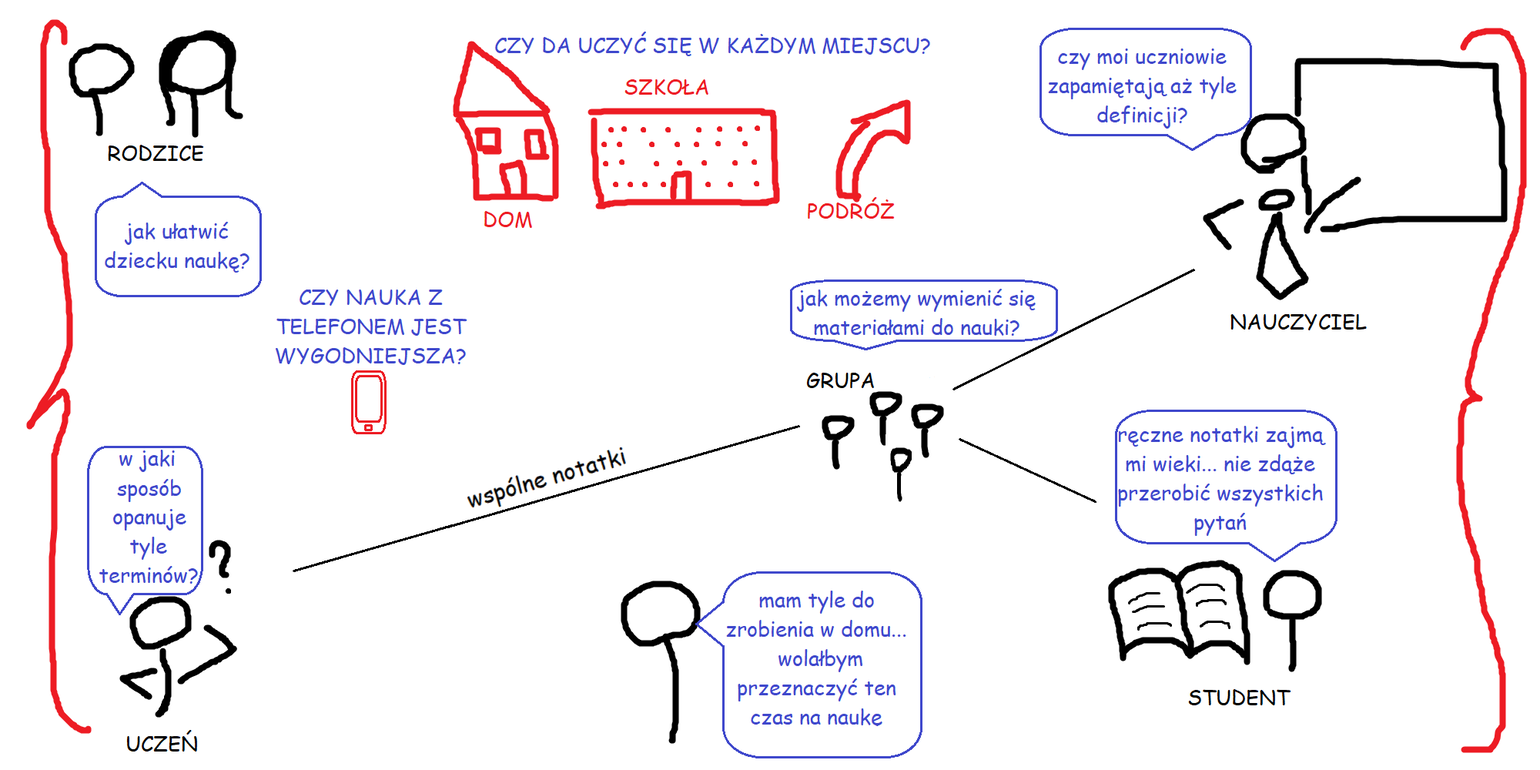
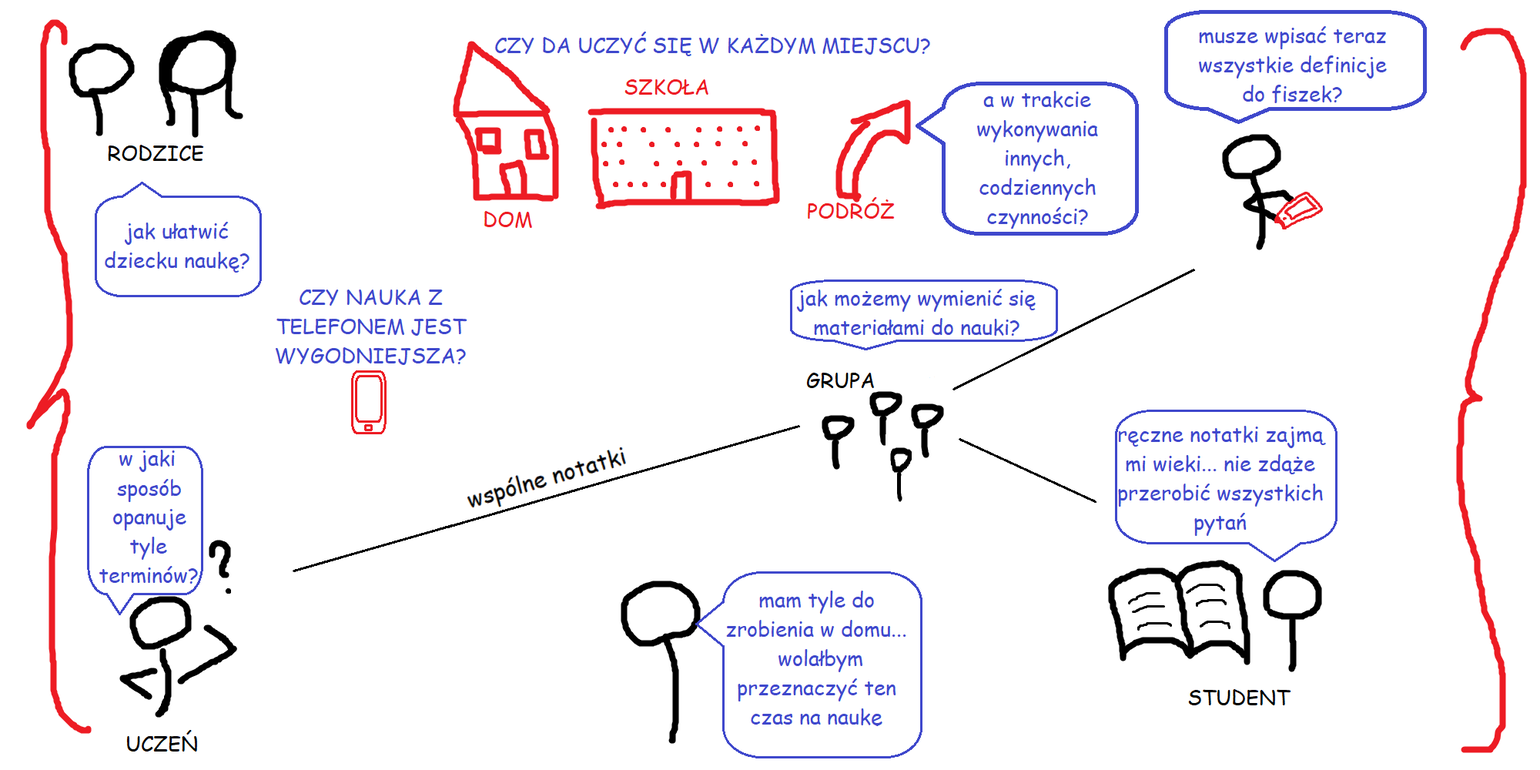
poprawki

Changed region(s): [[0.589, 0.0, 0.992, 0.434]]

diff --git a/book_latex/chapters/chapter_3/main.tex b/book_latex/chapters/chapter_3/main.tex
@@ -1,38 +1,47 @@
-\chapter{Projekt w kontekście problemu.}
+\chapter{Projekt w kontekście problemu}
 
-\section{Omówienie zakresu projektu.}
+\section{Omówienie zakresu projektu}
 
-W odpowiedzi na zdefiniowany i omówiony w Rozdziale II problem, niniejszy projekt zakłada wytworzenie aplikacji edukacyjnej, która umożliwi naukę metodą wykorzystującą fiszki. Projekt obejmuje dostarczenie aplikacji webowej dostępnej z poziomu przeglądarki internetowej oraz aplikacji mobilnej dla urządzeń z systemem android lub IOS. W zakres prac wlicza się także zbudowanie pełnej infrastruktury wspierającej aplikację - backend oraz serwer utrzymujący cały system.
+W odpowiedzi na zdefiniowany i omówiony w Rozdziale II problem, niniejszy projekt zakłada wytworzenie aplikacji edukacyjnej, która umożliwi naukę metodą wykorzystującą fiszki. Projekt obejmuje dostarczenie aplikacji webowej dostępnej z poziomu przeglądarki internetowej oraz aplikacji mobilnej dla urządzeń z systemem Android lub iOS. W zakres prac wlicza się także zbudowanie pełnej infrastruktury wspierającej aplikację - backend oraz serwer utrzymujący cały system.
 
-\section{Proponowane rozwiązanie.}
+\section{Proponowane rozwiązanie}
 
 Projekt bazuje na kilku kluczowych założeniach, które mają na celu bezpośrednie rozwiązanie problemów opisanych w Rozdziale II:
 
 \begin{itemize}
-    \item Obsługa Głosowa: integracja obsługi głosowej aplikacji ma ułatwić korzystanie z niej w sytuacjach w których użytkownik ma ograniczone możliwości fizycznej obsługi urządzenia. Dzięki temu nauka jest możliwa w każdych warunkach, co odpowiada na problem ograniczonej dostępności tradycyjnych metod nauki.
-    \item Narzędzie AI do tworzenia fiszek: udostępnienie narzędzia umożliwiającego automatyczne generowanie i dobieranie definicji/odpowiedzi do zagadnień w fiszkach. Pozwala przyśpieszyć i uprzystępnić proces redagowania fiszek.
-    \end{itemize}
+    \item obsługa głosowa: integracja obsługi głosowej aplikacji ma ułatwić korzystanie z niej w sytuacjach, w których użytkownik ma ograniczone możliwości fizycznej obsługi urządzenia. Dzięki temu nauka jest możliwa w każdych warunkach, co odpowiada na problem ograniczonej dostępności tradycyjnych metod nauki;
+    \item narzędzie AI do tworzenia fiszek: udostępnienie narzędzia umożliwiającego automatyczne generowanie i dobieranie definicji/odpowiedzi do zagadnień w fiszkach. Pozwala przyśpieszyć i uprzystępnić proces redagowania fiszek.
+\end{itemize}
 
-\section{Grupa docelowa.}
+\section{Grupa docelowa}
 
-Główną grupę użytkowników stanowią uczniowie i studenci, a także osoby, które nie mają czasu na tradycyjną formę przyswajania wiedzy na przykład czytanie lub naukę przy biurku w domowym zaciszu. Generowanie definicji przy użyciu programu ChatGPT pozwala na szybkie tworzenie zestawów fiszek, co może być bardzo wygodne dla osób ceniących sobie czas. Głosowa obsługa talii fiszek pozwala na wykonywanie sesji nauki w warunkach niesprzyjających innym formą uczenia się. Użytkownik ma możliwość powtórzenia materiału, wykonując inne obowiązki, takie jak gotowanie, sprzątanie lub inne czynności którym nie trzeba poświęcać większej uwagi.
+Główną grupę użytkowników stanowią uczniowie i studenci, a także osoby, które nie mają czasu na tradycyjną formę przyswajania wiedzy, na przykład czytanie lub naukę przy biurku w domowym zaciszu. Generowanie definicji przy użyciu programu ChatGPT pozwala na szybkie tworzenie zestawów fiszek, co może być bardzo wygodne dla osób ceniących sobie czas. Głosowa obsługa talii fiszek pozwala na wykonywanie sesji nauki w warunkach niesprzyjających innym formom uczenia się. Użytkownik ma możliwość powtórzenia materiału, wykonując inne obowiązki, takie jak gotowanie, sprzątanie lub inne czynności, którym nie trzeba poświęcać większej uwagi.
 
-\section{Analiza konkurencyjnych rozwiązań.}
+\section{Analiza rozwiązań konkurencji}
 
 Ważnym aspektem tworzenia nowego produktu lub usługi jest analiza konkurencji. Dostrzeżenie wad i zalet konkurencyjnych rozwiązań pozwala na ulepszenie produktów dostępnych na rynku i dotarcie do nowej grupy klientów.
 
 \subsection{Quizlet}
 
+%\putimage{Aplikacja mobilna Quizlet.}{chapters/chapter_3/quizlet.png}{img:quizlet}{0.5\textwidth}
+
 Jedna z pierwszych dostępnych na rynku aplikacja do fiszek. Utworzone w 2005 roku narzędzie do nauki zgromadziło ogromną bazę użytkowników szacowaną na około 50 milionów. Quizlet posiada stronę internetową i aplikacje mobilną dostępne na Android i IOS.
+
+\begin{figure}[H]
+    \centering
+    \includegraphics[width=0.5\textwidth]{chapters/chapter_3/quizlet.png}
+    \caption{Aplikacja mobilna Quizlet.}
+    \label{img:quizlet}
+\end{figure}
 
 Zalety:
 \begin{itemize}[label=-]
-    \item Możliwość tworzenia testów w różnych trybach: prawda fałsz, wielokrotny wybór, pisemny
+    \item Możliwość tworzenia testów w różnych trybach: prawda/fałsz, wielokrotny wybór, pisemny
     \item Odczytanie przez lektora treści fiszki poprzez kliknięcie przycisku
     \item Dostęp do materiałów, które zostały zweryfikowane przez ekspertów
     \item Personalizacja fiszek za pomocą obrazów i dźwięków
     \item Pozwala na wyszukiwanie talii innych użytkowników
-    \end{itemize}
+\end{itemize}
 
 Wady:
 \begin{itemize}[label=-]
@@ -40,11 +49,18 @@ Wady:
     \item Pełny dostęp do wszystkich funkcjonalności tylko za opłatą
     \item Brak rankingu popularności talii użytkowników, co pozwalałoby na łatwy dostęp do innych talii
     \item Brak trybu sterowania talii głosem
-    \end{itemize}
+\end{itemize}
 
 \subsection{Fiszkoteka}
 
-Polski portal do nauki metodą fiszek ukierunkowany na naukę języków obcych. Oprócz strony internetowej aplikacja dostępna na system Android or IOS.
+Polski portal do nauki metodą fiszek ukierunkowany na naukę języków obcych. Oprócz strony internetowej aplikacja dostępna na system Android lub iOS.
+
+\begin{figure}[H]
+    \centering
+    \includegraphics[width=0.5\textwidth]{chapters/chapter_3/fiszoteka.png}
+    \caption{Aplikacja mobilna Fiszoteka.}
+    \label{img:fiszoteka}
+\end{figure}
 
 Zalety:
 \begin{itemize}[label=-]
@@ -53,7 +69,7 @@ Zalety:
     \item Tryb słuchania, tytuł i treść fiszek są odczytywane po kolei przez lektora
     \item Dostęp do publicznych talii
     \item Można pobrać dokument PDF lub Mp3 z fiszek
-    \end{itemize}
+\end{itemize}
 
 Wady:
 \begin{itemize}[label=-]
@@ -63,11 +79,18 @@ Wady:
     \item Lektor w bezpłatnej wersji ograniczony do 20 dźwięków dziennie
     \item Brak trybu sterowania talii głosem
     \item Aplikacja ukierunkowana na uczenie się słówek
-    \end{itemize}
+\end{itemize}
 
 \subsection{Gizmo}
 
-Aplikacja wykorzystuje narzędzia sztucznej inteligencji, które pozwalają na tworzenie zestawów fiszek na podstawie plików PDF, CSV lub filmów na platformie YouTube. Gizmo posiada zarówno stronę internetową, jak i apliakcje mobliną na Andorid i IOS.
+Aplikacja wykorzystuje narzędzia sztucznej inteligencji, które pozwalają na tworzenie zestawów fiszek na podstawie plików PDF, CSV lub filmów na platformie YouTube. Gizmo posiada zarówno stronę internetową, jak i aplikację mobilną na Androida i iOS.
+
+\begin{figure}[H]
+    \centering
+    \includegraphics[width=0.5\textwidth]{chapters/chapter_3/gizmo.png}
+    \caption{Aplikacja mobilna Gizmo.}
+    \label{img:gizmo}
+\end{figure}
 
 Zalety:
 \begin{itemize}[label=-]
@@ -78,7 +101,7 @@ Zalety:
     \item Kalendarz passy (streak) zachęcający do nauki
     \item Przejrzysty interfejs
     \item Dostęp do publicznych talii
-    \end{itemize}
+\end{itemize}
 
 Wady:
 \begin{itemize}[label=-]
@@ -87,71 +110,61 @@ Wady:
     \item Brak rankingu popularności talii użytkowników
     \item Domyślnie irytująca częstotliwość powiadomień
     \item Brak trybu sterowania talii głosem
-    \end{itemize}
+\end{itemize}
 
 \subsection{Flashcards}
 
 Aplikacja dostępna tylko w wersji mobilnej. Ukierunkowana na uczenie się ze słuchu i tworzenie talii z użyciem mowy. Nieintuicyjny interfejs sprawia, że aplikacja jest nieprzyjazna dla nowych użytkowników.
+
+\begin{figure}[H]
+    \centering
+    \includegraphics[width=0.5\textwidth]{chapters/chapter_3/flashcards.png}
+    \caption{Aplikacja mobilna Flashcards.}
+    \label{img:flashcards}
+\end{figure}
 
 Zalety:
 \begin{itemize}[label=-]
     \item W trybie uczenia pozwala na korzystanie bez dotykania
     \item Możliwość tworzenia fiszek poprzez dyktowanie
     \item Brak reklam, brak opłat
-    \end{itemize}
+\end{itemize}
 
 Wady:
 \begin{itemize}[label=-]
     \item Bardzo archaiczny interfejs
     \item Nieintuicyjny interfejs
     \item Skromna instrukcja korzystania
-    \item W trybie uczenia mogę tylko słuchać i czekać na timer, nie ma nasłuchiwania haseł/komend
-    \item Brak publicznych talli
-    \end{itemize}
+    \item W trybie uczenia można tylko słuchać i czekać na timer, nie ma nasłuchiwania haseł/komend
+    \item Brak publicznych talii
+\end{itemize}
 
-\section{Analiza szans oraz zalet względem konkurencyjnych rozwiązań.}
+\section{Analiza szans oraz zalet względem konkurencyjnych rozwiązań}
 
 Podrozdział zawiera spis najważniejszych funkcjonalności, które odróżniają aplikację fiszki od innych produktów dostępnych na rynku.
 
-\subsection{Szanse/Zalety względem konkurencyjnych rozwiązań.}
+\subsection{Szanse/Zalety względem konkurencyjnych rozwiązań}
 
 Zalety:
 \begin{itemize}[label=-]
     \item Sterowanie głosowe talii
     \item Generowanie treści fiszki, wykorzystując ChatGPT
     \item Ranking najpopularniejszych talii
-    \end{itemize}
+\end{itemize}
 
-\subsection{Wady względem konkurencyjnych rozwiązań.}
+\subsection{Wady względem konkurencyjnych rozwiązań}
 
 Wady:
 \begin{itemize}[label=-]
     \item Aplikacja dostępna tylko w języku angielskim uniemożliwia uczenie się języków obcych
     \item Brak narzędzi generowania zestawów talii z różnych formatów plików takich jak: CSV, mp4, PDF
-    \item Brak możliwości generowania testów wielokrotnego wyboru lub prawda fałsz
-    \item Nie można eksportować talii do innych formatów plików takich jak pdf lub csv
-    \end{itemize}
+    \item Brak możliwości generowania testów wielokrotnego wyboru lub prawda/fałsz
+    \item Nie można eksportować talii do innych formatów plików takich jak PDF lub CSV
+\end{itemize}
 
-\section{Analiza ryzyka.}
+\section{Analiza ryzyka}
+
+Podrozdział przedstawia analizę ryzyka, która ma na celu określenie i zrozumienie potencjalnych zagrożeń, które mogą wpłynąć na proces tworzenia projektu.
 
 
-\begin{tabular}{|p{2.3cm}|p{2.3cm}|p{2.3cm}|p{2.3cm}|p{2.3cm}|p{2.3cm}|}
-    \hline
-\textbf{Zidentyfiko- wane ryzyko [20]} & \textbf{Symptomy} & \textbf{Środki / Działania zapobiegawcze i szacowany poziom trudności ich wdrożenia} & \textbf{Środki / Działania minimalizujące wpływ na projekt – już po jego wystąpieniu i szacowany poziom trudności ich wdrożenia (1-10)} & \textbf{Ranga ryzyka (im niższa, tym mniejszy negatywny wpływ na projekt)} & \textbf{Prawdopodo- bieństwo wystąpienia (1-100\%)} \\
-\hline
-Błędy w kodzie [O] & Błędy w kompilacji, wyniki testów nie pokrywają się z oczekiwanym rezultatem  & Szybka identyfikacja błędów, wykonywanie testów oprogramowania & Poprawa kodu, testowanie na bieżąco nowo implementowanych funkcjonalności (4) & 10 & 100\% \\
-\hline
-Awaria sprzętu deweloperskiego [S] & Sprzęt przestaje działać, brak możliwości odzyskania danych & Częste commity na repozytorium & Działanie na ostatniej wersji z repozytorium (1) & 7 & 10\% \\
-\hline
-Niedobór umiejętności w zespole [L] & Problemy jednostek w poszczególnych zadaniach & Uzupełnianie wiedzy & Pomoc innych członków zespołu (2) & 7 & 100\% \\
-\hline
-Niezgodność czasowa zespołu [C]  & Osoba blokuje postęp nad projektem poprzez odpowiedzialność nad kluczowym elementem & Wcześniejsze zaplanowanie pracy & Wspólna praca nad kluczowym elementem zajęcie się zadaniami niepowiązanymi (5) & 6 & 80\% \\
-\hline
-Wybór nieodpowiedniej technologii [T] & Planowane rozwiązania nie są osiągalne przez wykorzystywane technologie & Dogłębna analiza potrzebnych technologii i ich możliwości/ograniczeń & Dopasowanie alternatywnych możliwych rozwiązań (8) & 5 & 50\% \\
-\hline
-Niedoszacowanie budżetu potrzebnego do utrzymania infrastruktury [B] & Budżet zbliża się do wyczerpania przed zaplanowanym terminem  & Analiza cenników wykorzystywanych produktów & Próba pozyskania inwestorów (10) & 10 & 80\% \\
-\hline
-ChatGPT 3.5 generuje bezsensowną treść dotycząca zagadnienia o którą został zapytany przez użytkownika [F] & Generowane treści nie nawiązują do zagadnienia, o które chat został zapytany & Próba sprecyzowania zapytania, które zostało przesłane do chatu w celu wygenerowania konkretniejszej treści & Użytkownik może zaakceptować lub odrzucić wygenerowaną treść.  (4) & 7 & 50\% \\
-\hline
-\end{tabular}
-\clearpage
+\input{chapters/chapter_3/table}

diff --git a/book_latex/chapters/chapter_2/main.tex b/book_latex/chapters/chapter_2/main.tex
@@ -1,4 +1,4 @@
-\chapter{Omówienie problemu.}
+\chapter{Omówienie problemu}
 
 \section{Czym są fiszki?}
 
@@ -6,7 +6,7 @@ Nauka z wykorzystaniem metody fiszek opiera się na systemie regularnych powtór
 
 Rozwój technologiczny oraz dobiegająca zewsząd cyfryzacja powoli wypierają z użytku klasyczną formę stosowania fiszek na rzecz jej organizacji poprzez aplikacje mobilne oraz strony internetowe. Zmiana ta niesie wiele szans oraz możliwości udoskonalenia metody fiszek w jej skuteczności oraz dostępności. Fundamentalną zmianą jest samo przyśpieszenie całego procesu sporządzania talii oraz ich przeglądania – przy wykorzystaniu komputera lub smartfonu staje się to znacznie prostsze i szybsze niż ręczne zapisywanie kart, wycinania ich i gromadzenie.
 
-\section{Przedstawienie problemu.}
+\section{Przedstawienie problemu}
 
 Celem projektu jest zwiększenie efektywności uczenia się metodą fiszek poprzez jej integracje z interfejsem bezdotykowym. Pomimo dużego wkładu w przystępność i zwiększenie dostępności tej metody przez cyfrowe rozwiązania, istniejące aplikacje do tworzenia i przeglądania fiszek wymagają zasadniczo aktywnego zaangażowania użytkownika poprzez klikanie lub wpisywania na klawiaturze – zarówno przy użyciu smartfonów, jak i komputerów osobistych. Ta konieczność bezpośredniej interakcji ogranicza możliwości nauki do określonych sytuacji, co stanowi barierę w momentach, gdy użytkownik wykonuje inne czynności, na przykład proste prace domowe, a urządzenie obsługujące aplikacje nie może być efektywnie wykorzystane.
 
@@ -14,9 +14,13 @@ Dodatkowo proces tworzenia fiszek, który wymaga od użytkowników manualnego re
 
 W odpowiedzi na te wyzwania, opisany w niniejszej pracy system dąży do zminimalizowania ograniczeń związanych z tradycyjną obsługą aplikacji oferujących możliwość nauki metodą fiszek. Podjęty projekt proponuje rozwiązanie, które integruje proces przyswajania wiedzy z codziennymi czynnościami użytkownika oraz umożliwia jednocześnie szybsze i bardziej intuicyjne tworzenie materiałów do nauki. Celem realizowanego projektu jest stworzenie aplikacji, w której nauka jest nie tylko bardziej efektywna, ale również dostępna w szerokim zakresie sytuacji z pomocą bezdotykowej obsługi.
 
-\section{Zalety nauki z wykorzystaniem metody fiszek.}
+\section{Rich picture}
 
-\subsection{Krzywa zapomnienia Hermanna Ebbinghausa.}
+\putimage{Problem przedstawiony w rich picture.}{chapters/chapter_2/rich_picture.png}{img:rich_picture}{1.1\textwidth}
+
+\section{Zalety nauki z wykorzystaniem metody fiszek}
+
+\subsection{Krzywa zapomnienia Hermanna Ebbinghausa}
 
 Opierając się na systemie regularnych powtórek, praktykowana metoda fiszek pozwala na utrzymanie stanu wiedzy na wysokim poziomie zgodnie z zasadami krzywej zapomnienia Ebbing hausa. Mowa o zależności opisanej przez niemieckiego psychologa, Hermanna Ebbing hausa. Według wyników badań opublikowanych w 1885 roku w pracy \cite{1} Uber dąs Gedächtnis (w tłumaczeniu „O pamięci”), najlepszym sposobem na zapamiętanie jest rozłożenie nauki w czasie. Praktyka ta jest znacznie skuteczniejsza od skupienia nauki w jednym okresie. Istotnym elementem zagadnienia jest wykres omawianej krzywej:
 
@@ -27,24 +31,20 @@ Powyższy reprezentuje tempo, w którym następuje zapominanie nauczonych treśc
 
 W związku z powyższym przyjmuje się, że metoda nauki z regularnymi powtórkami, jaką oferuję metoda fiszek, pozwala na skuteczne utrwalenie wiedzy i znaczne spowolnienie zapominania jej. Użyte w badaniu informacje, które zostały podjęte nauce były danymi „bezużytecznymi”. Hermann Ebbinghaus celowo używał losowo utworzonych sylab, aby zminimalizować zależności między danymi a osobami które się uczyły. Powszechnie akceptowane w psychologii edukacyjnej jest twierdzenie, że przyswojenie informacji, które indywidualnie uznaje się za jakikolwiek interesujące dodatkowo ułatwia proces ich zapamiętania. Idące za tym wnioski plasują metodę regularnych powtórek tym bardziej przystępna, ponieważ znajduje zastosowanie nawet w przypadku zapamiętywania informacji, które nie koniecznie muszą być dla odbiorcy atrakcyjne.
 
-\subsection{Przykłady praktycznych zastosowań fiszek.}
+\subsection{Przykłady praktycznych zastosowań fiszek}
 
 Metoda nauki z wykorzystaniem fiszek znajduje szerokie zastosowanie w różnych dziedzinach nauki i życia codziennego, jej przystępna forma odpowiada poniższym przykładom:
 \begin{itemize}
-    \item Nauka języków obcych: Fiszki są powszechnie stosowane w celu utrwalenia słownictwa, zwrotów lub zasad gramatycznych języków obcych. Szybkie przypominanie i testowanie wiedzy jest w tym przypadku kluczowe w procesie opanowywania języka innego niż ojczysty.
-    \item Nauki techniczne: Ze względu na dużą ilość szczegółowych informacji, które istotnie trzeba spamiętać, fiszki są odpowiednim narzędziem dla studentów lub pracowników branży technicznych. Pomagają one w efektywnym przyswajaniu skomplikowanych terminów.
-    \item Przygotowanie do egzaminów: Uczniowie i studenci przygotowujący się do egzaminów mogą wykorzystać fiszki w celu opanowania kluczowych pojęć, definicji czy zestawu odpowiedzi.
+    \item nauka języków obcych: fiszki są powszechnie stosowane w celu utrwalenia słownictwa, zwrotów lub zasad gramatycznych języków obcych; szybkie przypominanie i testowanie wiedzy jest w tym przypadku kluczowe w procesie opanowywania języka innego niż ojczysty;
+    \item nauki techniczne: ze względu na dużą ilość szczegółowych informacji, które istotnie trzeba spamiętać, fiszki są odpowiednim narzędziem dla studentów lub pracowników branży technicznych. Pomagają one w efektywnym przyswajaniu skomplikowanych terminów;
+    \item przygotowanie do egzaminów: Uczniowie i studenci przygotowujący się do egzaminów mogą wykorzystać fiszki w celu opanowania kluczowych pojęć, definicji czy zestawu odpowiedzi.
 \end{itemize}
 
-\subsection{Personalizacja fiszek.}
+\subsection{Personalizacja fiszek}
 
 Do najważniejszych zalet nauki metodą fiszek zalicza się możliwość personalizacji materiałów naukowych. Osoby korzystające z fiszek mogą tworzyć własne talie, dostosowane do ich indywidualnych potrzeb i preferencji. Dodatkowo fiszki mogą być łatwo dostosowane do różnych sposobów uczenia się, przykładowo poprzez stosowanie trybu obsługi głosowej.
 
-\section{Rich picture.}
-
-\putimage{Problem przedstawiony w rich picture.}{chapters/chapter_2/rich_picture.png}{img:rich_picture}{1.1\textwidth}
-
-\section{Słownik pojęć.}
+\section{Słownik pojęć}
 
 \begin{enumerate}
     \item Fiszka - karta zapisana z dwóch stron, na jednej stronie znajduje się pytanie/zagadnienie, na drugiej odpowiedź/definicja.

diff --git a/book_latex/chapters/chapter_4/main.tex b/book_latex/chapters/chapter_4/main.tex
@@ -1,7 +1,7 @@
-\chapter{Społeczny aspekt projektu.}
+\chapter{Społeczny aspekt projektu}
 
-\section{Gamifikacja w kontekście produktu.}
-Aplikacja zawiera ranking popularności użytkowników i talii. Pozycja w rankingu użytkownika jest wyliczana na podstawie sumy wszystkich pobrań talii upublicznionych dla innych odbiorców systemu. Ranking talii to zestawy fiszek o największej liczbę pobrań. System rankingowy ma na celu wzbudzenie rywalizacji u użytkowników, co ma ich sprowokować do większej aktywności. System punktów zachęca także odbiorców systemu do tworzenia nowych zestawów talii i dzielenia się z nimi w celu zwiększenia swojej szansy na poprawienie swojej pozycji rankingowej.
+\section{Gamifikacja w kontekście produktu}
+Została przeprowadzona analiza związana z wpływem rywalizacji na aktywność użytkownika, wynika z niej, że elementy rankingowe mają wpływ na zwiększoną aktywność użytkowników, z tego powodu aplikacja zawiera ranking popularności użytkowników i talii. Pozycja w rankingu użytkownika jest wyliczana na podstawie sumy wszystkich pobrań talii upublicznionych dla innych odbiorców systemu. Ranking talii to zestawy fiszek o największej liczbę pobrań. System rankingowy ma na celu wzbudzenie rywalizacji u użytkowników, co ma ich sprowokować do większej aktywności. System punktów zachęca także odbiorców systemu do tworzenia nowych zestawów talii i dzielenia się z nimi w celu zwiększenia swojej szansy na poprawienie swojej pozycji rankingowej.
 
-\section{Ryzyko związane z nauką przy pomocy systemu Fishki.}
-System fiszki ma możliwość generowania definicji na podstawie słowa, wykorzystując ChatGPT, taka funkcjonalność niesie ze sobą różne zagrożenia związane z rozwojem umysłowym odbiorcy. Korzystanie z generowania treści może doprowadzić do rozleniwienia użytkownika. Odbiorca, wykorzystując ChatGPT do tworzenia definicji może nie podejmować żadnej refleksji, czy dostarczona treść ma jakikolwiek sens. W przypadku, w którym użytkownik nie jest zaznajomiony z tematem lub zagadnieniami może doprowadzić do sytuacji, w której wygenerowana treść będzie niepoprawna, ale odbiorca ze względu na brak wiedzy nie będzie tego świadomy. Sytuacja, gdy użytkownik jest zaznajomiony z materiałem do nauki i jest w stanie ocenić jakość generowanych treści też niekoniecznie musi być lepsza, ponieważ odbiorca, tworząc samemu treści fiszek utrwala sobie zagadnienia. Bezmyślne zapamiętywanie informacji to kolejne zagrożenie, jakie może pojawić się w czasie nauki nowego materiału. Uczenie się na pamięć treści bez dogłębnego zrozumienia ich, sprawia, że zagadnienie jest krócej pamiętane przez użytkownika, a także doprowadza do sytuacji, w której użytkownik nie rozumie i nie wie jak zastosować przyswojone informacje. Powyższe problemy występuję także w momencie, w którym użytkownik korzysta z zestawu fiszek utworzonych przez kogoś innego.
+\section{Ryzyko związane z nauką przy pomocy systemu Fishki}
+System fiszki ma możliwość generowania definicji na podstawie słowa, wykorzystując Chat GPT, taka funkcjonalność niesie ze sobą różne zagrożenia związane z rozwojem umysłowym odbiorcy. Korzystanie z generowania treści może doprowadzić do rozleniwienia użytkownika. Odbiorca, wykorzystując Chat GPT do tworzenia definicji może nie podejmować żadnej refleksji, czy dostarczona treść ma jakikolwiek sens. W przypadku, w którym użytkownik nie jest zaznajomiony z tematem lub zagadnieniami może doprowadzić do sytuacji, w której wygenerowana treść będzie niepoprawna, ale odbiorca ze względu na brak wiedzy nie będzie tego świadomy. Chat GPT potrafi generować nieprawdziwe informacje co może spowodować nauczenie się przez użytkownika zmyślonych treści. Sytuacja, gdy użytkownik jest zaznajomiony z materiałem do nauki i jest w stanie ocenić jakość generowanych treści też niekoniecznie musi być lepsza, ponieważ odbiorca, tworząc samemu treści fiszek utrwala sobie zagadnienia. Bezmyślne zapamiętywanie informacji to kolejne zagrożenie, jakie może pojawić się w czasie nauki nowego materiału. Uczenie się na pamięć treści bez dogłębnego zrozumienia ich, sprawia, że zagadnienie jest krócej pamiętane przez użytkownika, a także doprowadza do sytuacji, w której użytkownik nie rozumie i nie wie jak zastosować przyswojone informacje. Powyższe problemy występuję także w momencie, w którym użytkownik korzysta z zestawu fiszek utworzonych przez kogoś innego.

diff --git a/book_latex/chapters/chapter_3/table.tex b/book_latex/chapters/chapter_3/table.tex
@@ -1,0 +1,19 @@
+\begin{longtable}{|p{2.3cm}|p{2.3cm}|p{2.3cm}|p{2.3cm}|p{2.3cm}|p{2.3cm}|}
+    \hline
+\textbf{Zidentyfiko- wane ryzyko [20]} & \textbf{Symptomy} & \textbf{Środki / Działania zapobiegawcze i szacowany poziom trudności ich wdrożenia} & \textbf{Środki / Działania minimalizujące wpływ na projekt – już po jego wystąpieniu i szacowany poziom trudności ich wdrożenia (1-10)} & \textbf{Ranga ryzyka (im niższa, tym mniejszy negatywny wpływ na projekt)} & \textbf{Prawdopodo- bieństwo wystąpienia (1-100\%)} \\
+\hline
+Błędy w kodzie [O] & Błędy w kompilacji, wyniki testów nie pokrywają się z oczekiwanym rezultatem  & Szybka identyfikacja błędów, wykonywanie testów oprogramowania & Poprawa kodu, testowanie na bieżąco nowo implementowanych funkcjonalności (4) & 10 & 100\% \\
+\hline
+Awaria sprzętu deweloperskiego [S] & Sprzęt przestaje działać, brak możliwości odzyskania danych & Częste commity na repozytorium & Działanie na ostatniej wersji z repozytorium (1) & 7 & 10\% \\
+\hline
+Niedobór umiejętności w zespole [L] & Problemy jednostek w poszczególnych zadaniach & Uzupełnianie wiedzy & Pomoc innych członków zespołu (2) & 7 & 100\% \\
+\hline
+Niezgodność czasowa zespołu [C]  & Osoba blokuje postęp nad projektem poprzez odpowiedzialność nad kluczowym elementem & Wcześniejsze zaplanowanie pracy & Wspólna praca nad kluczowym elementem zajęcie się zadaniami niepowiązanymi (5) & 6 & 80\% \\
+\hline
+Wybór nieodpowiedniej technologii [T] & Planowane rozwiązania nie są osiągalne przez wykorzystywane technologie & Dogłębna analiza potrzebnych technologii i ich możliwości/ograniczeń & Dopasowanie alternatywnych możliwych rozwiązań (8) & 5 & 50\% \\
+\hline
+Niedoszacowanie budżetu potrzebnego do utrzymania infrastruktury [B] & Budżet zbliża się do wyczerpania przed zaplanowanym terminem  & Analiza cenników wykorzystywanych produktów & Próba pozyskania inwestorów (10) & 10 & 80\% \\
+\hline
+ChatGPT 3.5 generuje bezsensowną treść dotycząca zagadnienia o którą został zapytany przez użytkownika [F] & Generowane treści nie nawiązują do zagadnienia, o które chat został zapytany & Próba sprecyzowania zapytania, które zostało przesłane do chatu w celu wygenerowania konkretniejszej treści & Użytkownik może zaakceptować lub odrzucić wygenerowaną treść.  (4) & 7 & 50\% \\
+\hline
+\end{longtable}

diff --git a/book_latex/engineer.tex b/book_latex/engineer.tex
@@ -3,8 +3,15 @@
 \usepackage{array}
 \usepackage{enumitem}
 \usepackage[T1]{fontenc}
+\usepackage{setspace}
+\usepackage{longtable}
+\usepackage{float}
+\usepackage{indentfirst}
 
 \addbibresource{bibliography.bib}
+
+\setstretch{1.5}
+%\setmainfont{Times New Roman}
 
 \studfield{Informatyka}
 \studtype{Zaoczne}
@@ -22,7 +29,7 @@
 \productsandservices{Strona internetowa, aplikacja mobilna, serwer obsługujący utrzymanie i żywotność produktu }
 \mainfunctionalities{Nauka metodą fishek, obsługa talii tj. zestawów fiszek, obsługa talii fiszek za pomocą mowy, tworzenie fiszek z pomocą sztucznej inteligencji. }
 \successmeasure{Wytworzenie działającej strony internetowej i aplikacji mobilnej, opracowanie techniczne projektu z wykorzystaniem infrastruktury serwerowej, zaimplementowanie silnika sztucznej inteligencji, zrealizowanie wymagań systemowych na poziomie ‘wymagane’.}
-\projlimitations{Deadline, zdalny charakter pracy nad projektem, budżet, brak doświadczenia w pracy nad projektem o zadanej złożoności, nauka i wykorzystanie nowych technologii.}
+\projlimitations{Zdalny charakter pracy nad projektem, budżet, brak doświadczenia w pracy nad projektem o zadanej złożoności, nauka i wykorzystanie nowych technologii.}
 \date{\today}
 \nabstract{
     DO ZROBIENiA NA KOŃCU - NA RÓWNI ZE WSTĘPEM
@@ -47,8 +54,7 @@
 
     \input{chapters/chapter_4/main}
 
-    \input{chapters/chapter_5/main}
-
+   % \input{chapters/chapter_5/main}
 
     \printbibliography[title={Bibliografia}, heading=bibintoc]
 
